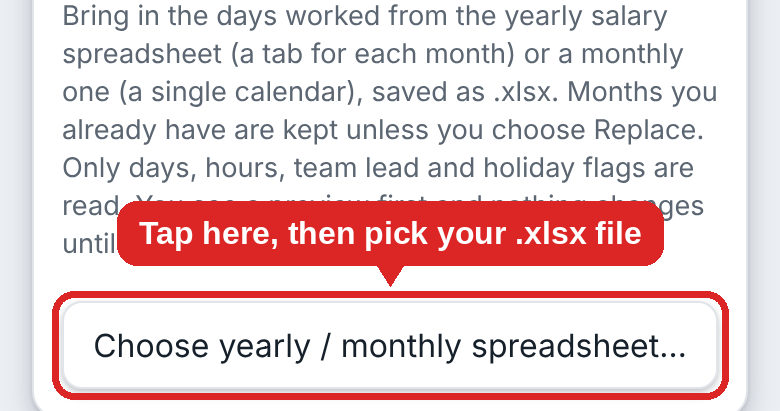
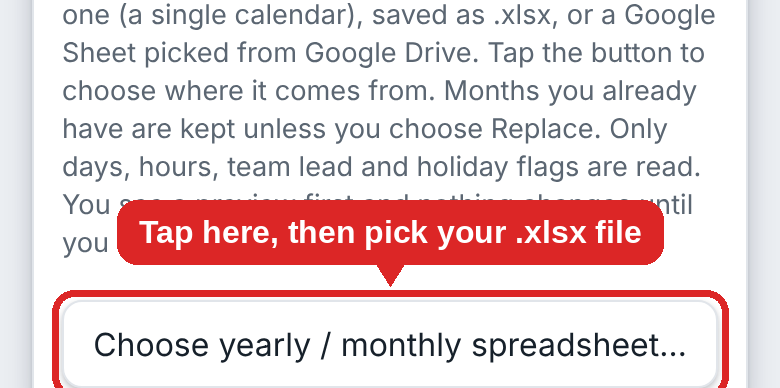
Spreadsheet source chooser, share diagnostics, Custom overtime hours (#38)
* Holiday / turnaround days read HOL/TAR in the list and on Home

* Timesheet: tick the sites and roles that go on the timesheet (and other jobs), edit the Client column text, press Save

* Menus pull down from their handle and title bar only; time picker uses AM/PM, hour and minute wheels (always saved as 24-hour)

* Payroll email says Good day; timesheet jobs show roles under each site, a read-out sentence, and a client-medic-everywhere option

Claude-Session: https://claude.ai/code/session_015B217MJCLoYGM2HCZFLF5v

* Time picker: smaller, softer time readout

Claude-Session: https://claude.ai/code/session_015B217MJCLoYGM2HCZFLF5v

* Share menu: starter kit tries .txt first (Android refuses .json); Send to payroll builds the file first, then opens the share menu with the email text

Claude-Session: https://claude.ai/code/session_015B217MJCLoYGM2HCZFLF5v

* Per-site 'Job requires lunch check' Yes/No (settings and Add site); No hides lunch options and pays the full time

Claude-Session: https://claude.ai/code/session_015B217MJCLoYGM2HCZFLF5v

* Colour picker: smaller round swatches in three rows, 12 more colours (existing sites keep theirs)

Claude-Session: https://claude.ai/code/session_015B217MJCLoYGM2HCZFLF5v

* Send to payroll: Download and share in one tap (saves to Downloads, stays on screen, opens the share menu); button becomes Share if the phone needs a second tap

Claude-Session: https://claude.ai/code/session_015B217MJCLoYGM2HCZFLF5v
[…]

Changed region(s): [[0.0308, 0.0, 0.9538, 1.0]]

diff --git a/src/components/AnnualImport.tsx b/src/components/AnnualImport.tsx
@@ -3,7 +3,9 @@ import { applyAnnual, guessAnnualAssignment, parseAnnual, planAnnual, withSheetS
 import { dayDMY, MONTHS } from "../format";
 import type { AppData } from "../model";
 import { ConfirmDialog } from "./ConfirmDialog";
-import { onSharedFile, takeSharedFile } from "../sharedFile";
+import { onSharedFile, takeSharedFile, takeSharedNotice } from "../sharedFile";
+import { useNav } from "../nav";
+import { SpreadsheetSource } from "./SpreadsheetSource";
 import { useStore } from "../store";
 import { ImportError, type Assignment } from "../siteMatch";
 
@@ -18,6 +20,11 @@ const MODES: Array<{ id: ImportMode; title: string; text: string }> = [
 export function AnnualImport() {
   const { data, replace } = useStore();
   const input = useRef<HTMLInputElement>(null);
+  // The second picker: the same file picker, but also offering Google Sheets (Google Drive converts them to Excel).
+  const driveInput = useRef<HTMLInputElement>(null);
+  const { loc, open, back } = useNav();
+  const [chooser, setChooser] = useState(false);
+  useEffect(() => { if (loc.sub !== "source") setChooser(false); }, [loc.sub]);
   const [sheet, setSheet] = useState<AnnualSheet | null>(null);
   const [assign, setAssign] = useState<Record<string, Assignment | undefined>>({});
   const [mode, setMode] = useState<ImportMode>("update");
@@ -57,7 +64,12 @@ export function AnnualImport() {
   const readRef = useRef(read);
   readRef.current = read;
   useEffect(() => {
-    const go = () => { const f = takeSharedFile(); if (f) void readRef.current(f); };
+    const go = () => {
+      const n = takeSharedNotice();
+      if (n) setMessage(n);
+      const f = takeSharedFile();
+      if (f) void readRef.current(f);
+    };
     go();
     return onSharedFile(go);
   }, []);
@@ -87,10 +99,19 @@ export function AnnualImport() {
   return (
     <section className="card">
       <h2>Import from your yearly / monthly spreadsheet</h2>
-      <p className="muted small">Bring in the days worked from the yearly salary spreadsheet (a tab for each month) or a monthly one (a single calendar), saved as .xlsx, or a Google Sheet picked straight from Google Drive in the file picker. On Android you can also use Share in the Sheets or Drive app and pick this app. Months you already have are kept unless you choose Replace. Only days, hours, team lead and holiday flags are read. You see a preview first and nothing changes until you confirm.</p>
-      <input ref={input} type="file" accept=".xlsx,.xlsm,application/vnd.openxmlformats-officedocument.spreadsheetml.sheet,application/vnd.google-apps.spreadsheet,application/vnd.ms-excel,application/octet-stream" hidden
+      <p className="muted small">Bring in the days worked from the yearly salary spreadsheet (a tab for each month) or a monthly one (a single calendar), saved as .xlsx, or a Google Sheet picked from Google Drive. Tap the button to choose where it comes from. Months you already have are kept unless you choose Replace. Only days, hours, team lead and holiday flags are read. You see a preview first and nothing changes until you confirm.</p>
+      <input ref={input} type="file" accept=".xlsx,application/vnd.openxmlformats-officedocument.spreadsheetml.sheet" hidden
         onChange={(e) => { const f = e.target.files?.[0]; if (f) void read(f); e.target.value = ""; }} />
-      <button className="wide" disabled={busy} onClick={() => input.current?.click()}>{busy ? "Reading…" : "Choose yearly / monthly spreadsheet…"}</button>
+      <input ref={driveInput} type="file" accept=".xlsx,.xlsm,application/vnd.openxmlformats-officedocument.spreadsheetml.sheet,application/vnd.google-apps.spreadsheet,application/vnd.ms-excel,application/octet-stream" hidden aria-label="Google Drive spreadsheet"
+        onChange={(e) => { const f = e.target.files?.[0]; if (f) void read(f); e.target.value = ""; }} />
+      <button className="wide" disabled={busy} onClick={() => { setChooser(true); open({ sub: "source" }); }}>{busy ? "Reading…" : "Choose yearly / monthly spreadsheet…"}</button>
+      {chooser && (
+        <SpreadsheetSource
+          onClose={back}
+          onPhone={() => { input.current?.click(); back(); }}
+          onDrive={() => { driveInput.current?.click(); back(); }}
+        />
+      )}
       {message && <p className={`notice ${message.ok ? "" : "warn"}`} role="status">{message.text}</p>}
       {undo && !sheet && <button className="wide" onClick={() => { replace(undo); setUndo(null); setMessage({ text: "The last import was undone. Your days are back as they were.", ok: true }); }}>Undo the last import</button>}
 

diff --git a/src/screens/SitesPage.tsx b/src/screens/SitesPage.tsx
@@ -421,6 +421,8 @@ function AddSiteForm({ table, payers, onAdd, onDone }: {
   const [std, setStd] = useState<Num>();
   const [lead, setLead] = useState<Num>();
   const [template, setTemplate] = useState<string | undefined>();
+  // "Custom" in the Overtime hours list: the hours at 1x / 1.5x / 2x / 3x are typed in by hand.
+  const [custom, setCustom] = useState<{ weekday: TierCaps; weekend: TierCaps; holiday: TierCaps }>({ weekday: {}, weekend: {}, holiday: {} });
   const [lunch, setLunch] = useState(true);
   const [roleField, setRoleField] = useState<SiteRates["roleField"]>();
   const [fixed, setFixed] = useState(false);
@@ -433,15 +435,19 @@ function AddSiteForm({ table, payers, onAdd, onDone }: {
   const tpl = template ?? (isNew ? "overtime" : groupTemplate ?? "overtime");
   const finalStd = isNew ? std : groupStd;
   const finalLead = isNew ? (lead ?? std) : (groupLead ?? groupStd);
+  const hasHours = (c: TierCaps) => [c.x1, c.x15, c.x2, c.x3].some((v) => (v ?? 0) > 0);
+  const customReady = tpl !== "custom" || (hasHours(custom.weekday) && hasHours(custom.weekend) && hasHours(custom.holiday));
   const taken = Object.keys(table).some((k) => k.toLowerCase() === name.trim().toLowerCase());
-  const ok = !!name.trim() && !taken && (!isNew || !!groupName.trim()) && (fixed ? (fx.dailyStd ?? 0) > 0 : !isNew || (std ?? 0) > 0);
-  const reset = () => { onDone(); setName(""); setGroupName(""); setStd(undefined); setLead(undefined); setTemplate(undefined); setLunch(true); setRoleField(undefined); setFixed(false); setFx(newFixedSite()); };
+  const ok = !!name.trim() && !taken && (!isNew || !!groupName.trim()) && (fixed ? (fx.dailyStd ?? 0) > 0 : (!isNew || (std ?? 0) > 0) && customReady);
+  const reset = () => { onDone(); setName(""); setGroupName(""); setStd(undefined); setLead(undefined); setTemplate(undefined); setCustom({ weekday: {}, weekend: {}, holiday: {} }); setLunch(true); setRoleField(undefined); setFixed(false); setFx(newFixedSite()); };
   const add = () => {
     const id = isNew ? slug(groupName, groupIds) : group;
     const extra: Partial<SiteRates> = { ...(roleField ? { roleField } : {}), ...(!fixed && !lunch ? { lunch: false } : {}) };
     const site: SiteRates = fixed
       ? { ...fx, payer: id, ...extra }
-      : applyTemplate({ ...emptySite(id), baseRate: finalStd, leadRate: finalLead, ...extra }, tpl);
+      : tpl === "custom"
+        ? { ...emptySite(id), baseRate: finalStd, leadRate: finalLead, ...extra, weekday: { ...custom.weekday }, weekend: { ...custom.weekend }, holiday: { ...custom.holiday } }
+        : applyTemplate({ ...emptySite(id), baseRate: finalStd, leadRate: finalLead, ...extra }, tpl);
     onAdd(name.trim(), id, site, isNew ? groupName.trim() : undefined);
     reset();
   };
@@ -480,9 +486,21 @@ function AddSiteForm({ table, payers, onAdd, onDone }: {
           <label>Overtime hours
             <select aria-label="Hours template for the new site" value={tpl} onChange={(e) => setTemplate(e.target.value)}>
               {HOURS_TEMPLATES.map((t) => <option key={t.id} value={t.id}>{t.name}</option>)}
+              <option value="custom">Custom (type the hours in)</option>
             </select>
           </label>
-          <p className="muted small">{templateById(tpl)?.description}</p>
+          {tpl === "custom" ? (
+            <>
+              <p className="muted small">How many hours of each day are paid at 1x, 1.5x, 2x and 3x. Example: 8 under 1x and 4 under 1.5x means the first 8 hours at 1x, then 4 hours at 1.5x. Type 1000 for “no limit”. Fill in all three rows.</p>
+              <div className="caps">
+                <span /><span className="cap-h">1x</span><span className="cap-h">1.5x</span><span className="cap-h">2x</span><span className="cap-h">3x</span>
+                <CapsRow label="Weekday" caps={custom.weekday} onChange={(c) => setCustom((x) => ({ ...x, weekday: c }))} />
+                <CapsRow label="Weekend" caps={custom.weekend} onChange={(c) => setCustom((x) => ({ ...x, weekend: c }))} />
+                <CapsRow label="Holiday" caps={custom.holiday} onChange={(c) => setCustom((x) => ({ ...x, holiday: c }))} withX3 />
+              </div>
+              {!customReady && <p className="muted small">Add site turns on once Weekday, Weekend and Holiday each have some hours.</p>}
+            </>
+          ) : <p className="muted small">{templateById(tpl)?.description}</p>}
         </>
       )}
       <div className="row">

diff --git a/src/sharedFile.ts b/src/sharedFile.ts
@@ -3,26 +3,40 @@ const CACHE = "shared-files";
 const KEY = "shared-file";
 
 let pending: File | null = null;
+let notice: { text: string; ok: boolean } | null = null;
 const listeners = new Set<() => void>();
 
-/** If the app was opened by a share (?shared=1), fetch the file the service worker kept. True when a file is waiting. */
-export async function loadSharedFile(): Promise<boolean> {
-  if (typeof window === "undefined" || !new URLSearchParams(window.location.search).has("shared")) return false;
+/**
+ * If the app was opened by a share (?shared=...), fetch the file the service worker kept.
+ * "file": a file is waiting; "empty": the share came without a file; "none": the app was not opened by a share.
+ */
+export async function loadSharedFile(): Promise<"file" | "empty" | "none"> {
+  if (typeof window === "undefined") return "none";
+  const flag = new URLSearchParams(window.location.search).get("shared");
+  if (flag === null) return "none";
   // The address goes back to normal, so a refresh does not look for the file again.
   const clean = new URL(window.location.href);
   clean.searchParams.delete("shared");
   window.history.replaceState(window.history.state, "", clean.pathname + clean.search + clean.hash);
+  const empty = () => {
+    notice = { text: "The app was opened by a share, but no spreadsheet came with it. In Google Sheets or Drive use Share & export, Send a copy, then Excel, and pick this app. Or use Choose yearly / monthly spreadsheet below.", ok: false };
+    listeners.forEach((l) => l());
+    return "empty" as const;
+  };
+  if (flag === "empty") return empty();
   try {
     const cache = await caches.open(CACHE);
     const res = await cache.match(KEY);
-    if (!res) return false;
+    if (!res) return empty();
     const name = decodeURIComponent(res.headers.get("X-File-Name") ?? "shared.xlsx");
-    pending = new File([await res.blob()], name, { type: res.headers.get("Content-Type") ?? "" });
+    const blob = await res.blob();
+    pending = new File([blob], name, { type: res.headers.get("Content-Type") ?? "" });
+    notice = { text: `Received “${name}” (${Math.max(1, Math.round(blob.size / 1024))} KB) from the share. Reading it…`, ok: true };
     await cache.delete(KEY);
     listeners.forEach((l) => l());
-    return true;
+    return "file";
   } catch {
-    return false;
+    return empty();
   }
 }
 
@@ -31,6 +45,13 @@ export function takeSharedFile(): File | null {
   const f = pending;
   pending = null;
   return f;
+}
+
+/** What to tell the person about the share that opened the app, once. */
+export function takeSharedNotice(): { text: string; ok: boolean } | null {
+  const n = notice;
+  notice = null;
+  return n;
 }
 
 export function onSharedFile(l: () => void): () => void {

diff --git a/src/components/SpreadsheetSource.tsx b/src/components/SpreadsheetSource.tsx
@@ -1,0 +1,38 @@
+import { useState } from "react";
+import { BottomSheet } from "./BottomSheet";
+
+/** What the "Choose yearly / monthly spreadsheet" button offers: where the spreadsheet comes from. */
+export function SpreadsheetSource({ onClose, onPhone, onDrive }: { onClose: () => void; onPhone: () => void; onDrive: () => void }) {
+  const [steps, setSteps] = useState(false);
+  return (
+    <BottomSheet label="Choose your spreadsheet" onRequestClose={onClose}>
+      <header className="bar">
+        <h2>Choose your spreadsheet</h2>
+        <button className="icon" onClick={onClose} aria-label="Close">✕</button>
+      </header>
+      <div className="source-choices">
+        <button className="primary" onClick={onPhone}>
+          <strong>Excel file on this phone</strong>
+          <span>From Downloads, Files or WhatsApp. The usual way.</span>
+        </button>
+        <button className="primary" onClick={onDrive}>
+          <strong>Google Sheet from Google Drive</strong>
+          <span>Browse Google Drive and pick your sheet. No saving as Excel first.</span>
+        </button>
+        <button aria-expanded={steps} onClick={() => setSteps((v) => !v)}>
+          <strong>Share from Sheets or Drive (Android)</strong>
+          <span>Send the sheet to this app from the Google Sheets or Drive app.</span>
+        </button>
+        {steps && (
+          <ol className="steps small">
+            <li>Open your sheet in the <strong>Google Sheets</strong> app (or the file in <strong>Drive</strong>).</li>
+            <li>Tap the three dots, then <strong>Share &amp; export</strong>, then <strong>Send a copy</strong>.</li>
+            <li>Choose <strong>Excel (.xlsx)</strong>.</li>
+            <li>In the list of apps, tap <strong>HHSL pay</strong>. The import preview opens.</li>
+            <li>HHSL pay is not in the list? Use one of the two buttons above instead.</li>
+          </ol>
+        )}
+      </div>
+    </BottomSheet>
+  );
+}

diff --git a/public/share-target-sw.js b/public/share-target-sw.js
@@ -1,19 +1,22 @@
 // Receives a spreadsheet shared to the app from another app (Google Sheets, Drive, Files, ...) on Android:
-// the file is kept for a moment, then the app opens and picks it up.
+// the file is kept for a moment, then the app opens and picks it up. If no file came with the share, the app is told so.
 self.addEventListener("fetch", (event) => {
   const url = new URL(event.request.url);
   if (event.request.method !== "POST" || !url.pathname.endsWith("/share-target")) return;
   event.respondWith((async () => {
+    let got = false;
     try {
       const form = await event.request.formData();
-      const file = form.get("file");
-      if (file && typeof file !== "string" && file.size) {
+      let file = null;
+      for (const [, value] of form.entries()) { if (typeof value !== "string" && value.size) { file = value; break; } }
+      if (file) {
         const cache = await caches.open("shared-files");
         await cache.put("shared-file", new Response(file, {
           headers: { "X-File-Name": encodeURIComponent(file.name || "shared.xlsx"), "Content-Type": file.type || "application/octet-stream" },
         }));
+        got = true;
       }
-    } catch (e) { /* the app opens anyway and shows nothing to import */ }
-    return Response.redirect(url.pathname.replace(/share-target$/, "") + "?shared=1", 303);
+    } catch (e) { /* treated as no file */ }
+    return Response.redirect(url.pathname.replace(/share-target$/, "") + (got ? "?shared=1" : "?shared=empty"), 303);
   })());
 });

diff --git a/src/styles.css b/src/styles.css
@@ -1062,3 +1062,9 @@ button.close-site { justify-content: center; text-align: center; color: var(--ac
 /* A public holiday in the Month list: the same circled H as on the calendar tile, beside the date number. */
 .day .hol-slot { display: flex; justify-content: center; }
 .day .hol-h { width: 17px; height: 17px; box-sizing: border-box; border-radius: 50%; border: 1.5px solid var(--hol); color: var(--hol); font-size: 0.62rem; font-weight: 800; display: flex; align-items: center; justify-content: center; line-height: 1; padding: 2px 0 0; }
+
+.source-choices { display: grid; gap: 10px; margin: 8px 0 16px; }
+.source-choices button { display: grid; gap: 2px; text-align: left; padding: 12px 14px; min-height: 0; }
+.source-choices button strong { font-size: 1.02rem; }
+.source-choices button span { font-size: 0.84rem; font-weight: 400; opacity: 0.9; }
+.source-choices ol { margin: 0; padding-left: 1.2rem; display: grid; gap: 4px; }

diff --git a/src/App.tsx b/src/App.tsx
@@ -32,7 +32,7 @@ function Shell() {
   const { loc, selectTab, back, exitHint, open } = useNav();
   const { data } = useStore();
   // A spreadsheet shared into the app (Android Share menu) opens Backup & restore, where its import preview waits.
-  useEffect(() => { void loadSharedFile().then((found) => { if (found) open({ page: "backup" }); }); }, []); // eslint-disable-line react-hooks/exhaustive-deps
+  useEffect(() => { void loadSharedFile().then((found) => { if (found !== "none") open({ page: "backup" }); }); }, []); // eslint-disable-line react-hooks/exhaustive-deps
   const needsSetup = !userNameOf(data) || (siteCount(data) === 0 && !data.setupSkipped);
   if (needsSetup && !loc.page) return <div className="app"><main><WelcomeScreen /></main></div>;
   return (

diff --git a/guide/build_guide.py b/guide/build_guide.py
@@ -140,13 +140,14 @@ s.append(steps([
  ("Choose to save it on your phone (Downloads). The file must end in <b>.xlsx</b>. A spreadsheet that is already an Excel file can skip Step A.", None)]))
 s.append(Paragraph("Shortcuts (you can skip Step A with these)", h2))
 s.append(steps([
- ("<b>Pick it from Google Drive.</b> In Step B, when the phone's file picker opens (<b>Choose yearly / monthly spreadsheet</b>), open <b>Google Drive</b> (Android: the menu at the top left of the picker; iPhone: Browse, then Drive) and choose your sheet. A Google Sheet is turned into an Excel file for you. If your sheet is not listed or will not open, use Step A instead.", None),
- ("<b>Share it to the app (Android).</b> In the <b>Google Sheets</b> or <b>Drive</b> app, open your sheet, tap <b>Share &amp; export</b>, <b>Send a copy</b>, choose <b>Excel</b>, then pick <b>HHSL pay</b> in the list of apps. The app opens on <b>Backup &amp; restore</b> with the preview ready; carry on from the preview step below. This needs the app to be installed on the Home screen.", None)]))
+ ("Tap <b>Choose yearly / monthly spreadsheet</b> (in Step B below). A sheet opens with three ways to bring the spreadsheet in: <b>Excel file on this phone</b> (the usual way, for a file you saved), <b>Google Sheet from Google Drive</b> and <b>Share from Sheets or Drive (Android)</b>.", A("a-source"), 50),
+ ("<b>Google Sheet from Google Drive:</b> tap it, then in the file picker open <b>Google Drive</b> (Android: the menu at the top left of the picker; iPhone: Browse, then Drive) and choose your sheet. A Google Sheet is turned into an Excel file for you. If your sheet is not listed or will not open, use Step A instead.", None),
+ ("<b>Share it to the app (Android):</b> in the <b>Google Sheets</b> or <b>Drive</b> app, open your sheet, tap the three dots, <b>Share &amp; export</b>, <b>Send a copy</b>, choose <b>Excel</b>, then pick <b>HHSL pay</b> in the list of apps. The app opens on <b>Backup &amp; restore</b> with the preview ready, and tells you what it received. If <b>HHSL pay</b> is not in the list, or nothing happens, use one of the other two ways.", None)]))
 s.append(Paragraph("Step B. Import it into the app", h2))
 s.append(steps([
  ("In the app, tap the <b>gear</b> at the top right (Settings).", A("a-home"), 50),
  ("Scroll down and tap <b>Backup &amp; restore</b>.", A("a-settings"), 50),
- ("Under <b>Import from your yearly / monthly spreadsheet</b>, tap <b>Choose yearly / monthly spreadsheet</b> and pick your .xlsx file from Downloads.", A("a-import"), 50),
+ ("Under <b>Import from your yearly / monthly spreadsheet</b>, tap <b>Choose yearly / monthly spreadsheet</b>, then <b>Excel file on this phone</b>, and pick your .xlsx file from Downloads.", A("a-import"), 50),
  ("A <b>preview</b> shows your name, the year and how many days were found in each month. <b>Nothing changes until you confirm.</b> For each client name in the sheet, choose which of your <b>sites</b> it is, or <b>Skip these days</b>. Under that, a box counts what the file would do: <b>new</b> days, days <b>the same</b>, days <b>changed</b>, and days <b>only in the app</b>. Tap a line to see the days.", I("import-preview")),
  ("Pick one of the <b>three ways to import</b>. Each has its own short description: <b>Update</b> (the usual choice) adds new days and fixes the days that changed to match the file, and days that are only in the app stay. <b>Add only</b> adds new days and changes nothing you already logged. <b>Replace</b> clears the jobs in the months in the file, then adds the file's days, so days not in the file are removed (other months stay), and it asks you to confirm first.", None),
  ("Tap the green button (for example <b>Import (13 new, 1 updated)</b>), then open the Month tab to see your days. If it is not what you wanted, tap <b>Undo the last import</b> on the same screen and your days come back as they were.", None)]))
@@ -189,7 +190,7 @@ s.append(steps([
  ("Open <b>Settings</b>, then <b>Site locations &amp; rates</b>. At the bottom of the list, tap the teal button <b>+ Add new location</b>. It opens its own page.", None),
  ("Type the <b>site name</b>. Under <b>Group</b>, pick the payslip the site belongs to. A group is its own payslip: in Split tax mode it pays its own PAYE, NIS and health surcharge. To start a new payslip group, choose <b>New group</b>, type its name and the standard rate.", A("c-add"), 50),
  ("<b>Role box on the day form:</b> choose <b>Standard roles</b> (the day form shows the Role list, for example Client medic) or <b>Type in a location</b>. With a typed location, you type the place on each day (for example Dolphin platform) and it goes in the <b>Client assigned</b> column of the time sheet.", A("d-typed"), 50),
- ("<b>How the site is paid:</b> <b>Hourly</b> uses the group's hourly rates, the overtime pattern and the <b>lunch check</b> Yes or No. <b>Fixed day rate</b> is for a site that pays one amount for the day (see B). A fixed day rate site never has a lunch check.", None),
+ ("<b>How the site is paid:</b> <b>Hourly</b> uses the group's hourly rates, the overtime pattern and the <b>lunch check</b> Yes or No. For hourly sites, the <b>Overtime hours</b> list offers ready-made patterns and <b>Custom (type the hours in)</b>: choose Custom and fill in how many hours of the day are paid at 1x, 1.5x, 2x and 3x for Weekday, Weekend and Holiday (type 1000 for no limit); <b>Add site</b> turns on once all three rows have some hours. <b>Fixed day rate</b> is for a site that pays one amount for the day (see B). A fixed day rate site never has a lunch check.", None),
  ("Tap <b>Add site</b> at the bottom of the page. Cancel closes the page without adding anything.", A("c-addbtn"), 50)]))
 s.append(Paragraph("B. A fixed day rate site", h2))
 s.append(steps([

diff --git a/guide/capture/annot16.py b/guide/capture/annot16.py
@@ -1,0 +1,9 @@
+import json
+from PIL import Image, ImageDraw, ImageFont
+B="/usr/share/fonts/truetype/liberation/LiberationSans-Bold.ttf"; RED=(220,38,38)
+boxes=json.load(open("shots16/boxes.json"))["source"]
+im=Image.open("shots16/source.png").convert("RGB"); d=ImageDraw.Draw(im); f=ImageFont.truetype(B,30)
+x,y,w,h=boxes["drive"]; pad=8
+d.rounded_rectangle((x-pad,y-pad,x+w+pad,y+h+pad),22,outline=RED,width=7)
+top=boxes["phone"][1]-260; bottom=boxes["share"][1]+boxes["share"][3]+40
+im.crop((0,max(0,int(top)),im.width,min(im.height,int(bottom)))).save("shots16/a-source.png"); print(Image.open("shots16/a-source.png").size)
